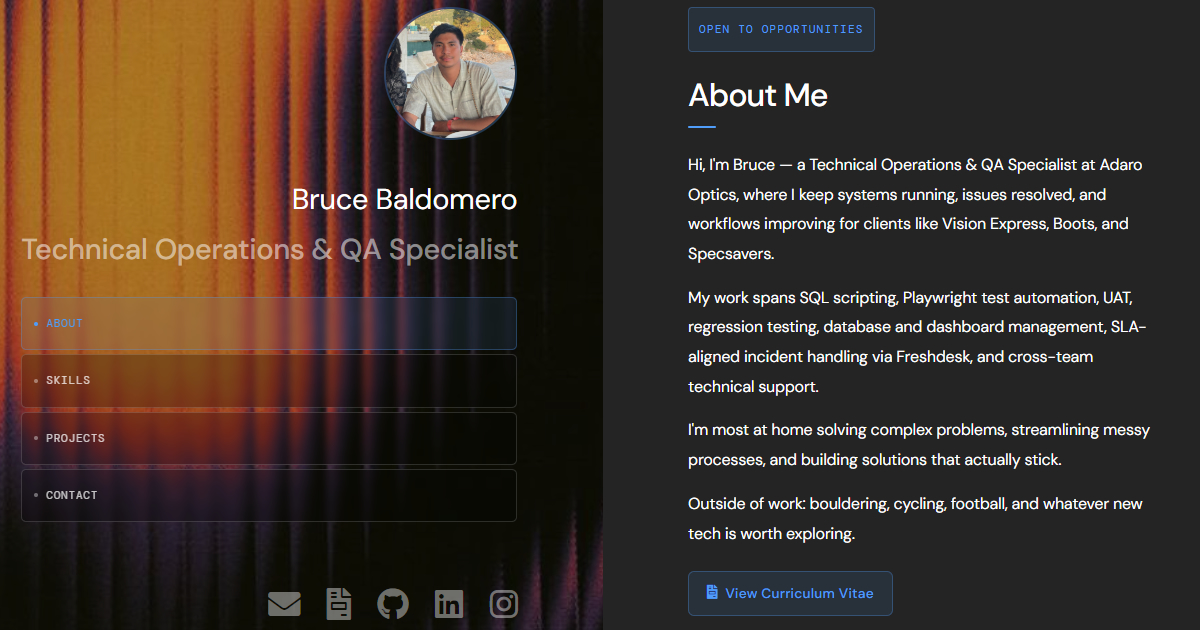
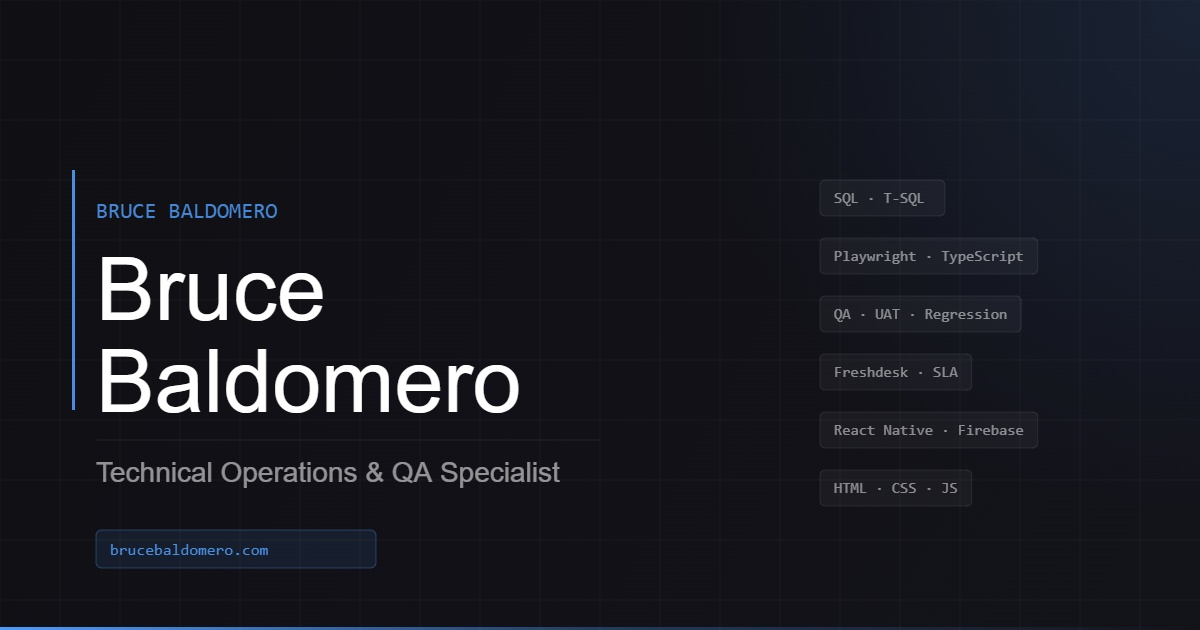
improvements

diff --git a/index.html b/index.html
@@ -65,7 +65,7 @@
 					<p>My work spans SQL scripting, Playwright test automation, UAT, regression testing, database and dashboard management, SLA-aligned incident handling via Freshdesk, and cross-team technical support.</p>
 					<p>I thrive in fast-paced environments, solving complex problems and building solutions that actually stick. Open to remote and office-based roles.</p>
 					<p>Outside of work: bouldering, cycling, football, and spending time with family and friends.</p>
-					<a href="https://drive.google.com/file/d/14tzCKrzU45PDKyebb9Lunte5wu6eVqVr/view?usp=sharing" target="_blank" class="cv-btn">
+					<a href="https://drive.google.com/file/d/14tzCKrzU45PDKyebb9Lunte5wu6eVqVr/view?usp=sharing" target="_blank" rel="noopener noreferrer" class="cv-btn">
 						<span class="fas fa-file-invoice"></span> View Curriculum Vitae
 					</a>
 				</div>
@@ -265,8 +265,8 @@
 						<span class="tech-tag">Web Design</span>
 					</div>
 					<div class="proj-links">
-						<a href="https://github.com/brucebaldomero/mukhafaceyoga" target="_blank" class="proj-btn"><i class="fab fa-github"></i> Code</a>
-						<a href="https://mukhafaceyoga.com" target="_blank" class="proj-btn proj-btn-live"><i class="fas fa-globe"></i> Live site</a>
+						<a href="https://github.com/brucebaldomero/mukhafaceyoga" target="_blank" rel="noopener noreferrer" class="proj-btn"><i class="fab fa-github"></i> Code</a>
+						<a href="https://mukhafaceyoga.com" target="_blank" rel="noopener noreferrer" class="proj-btn proj-btn-live"><i class="fas fa-globe"></i> Live site</a>
 					</div>
 				</article>
 
@@ -282,8 +282,8 @@
 						<span class="tech-tag">Expo</span>
 					</div>
 					<div class="proj-links">
-						<a href="https://github.com/brucebaldomero/creativeapplication" target="_blank" class="proj-btn"><i class="fab fa-github"></i> Code</a>
-						<a href="https://drive.google.com/file/d/1nGeuxvVltvege6mhWdIp_nWCgdqcSGXf/view?usp=sharing" target="_blank" class="proj-btn"><i class="fas fa-file"></i> Thesis</a>
+						<a href="https://github.com/brucebaldomero/creativeapplication" target="_blank" rel="noopener noreferrer" class="proj-btn"><i class="fab fa-github"></i> Code</a>
+						<a href="https://drive.google.com/file/d/1nGeuxvVltvege6mhWdIp_nWCgdqcSGXf/view?usp=sharing" target="_blank" rel="noopener noreferrer" class="proj-btn"><i class="fas fa-file"></i> Thesis</a>
 					</div>
 				</article>
 
@@ -299,8 +299,8 @@
 						<span class="tech-tag">SPA</span>
 					</div>
 					<div class="proj-links">
-						<a href="https://github.com/brucebaldomero/creative-single-page-app" target="_blank" class="proj-btn"><i class="fab fa-github"></i> Code</a>
-						<a href="https://brucebaldomero.github.io/creative-single-page-app/" target="_blank" class="proj-btn proj-btn-live"><i class="fas fa-globe"></i> Live site</a>
+						<a href="https://github.com/brucebaldomero/creative-single-page-app" target="_blank" rel="noopener noreferrer" class="proj-btn"><i class="fab fa-github"></i> Code</a>
+						<a href="https://brucebaldomero.github.io/creative-single-page-app/" target="_blank" rel="noopener noreferrer" class="proj-btn proj-btn-live"><i class="fas fa-globe"></i> Live site</a>
 					</div>
 				</article>
 
@@ -317,8 +317,8 @@
 						<span class="tech-tag">E-commerce</span>
 					</div>
 					<div class="proj-links">
-						<a href="https://github.com/brucebaldomero/grapevine-clothing" target="_blank" class="proj-btn"><i class="fab fa-github"></i> Code</a>
-						<a href="https://brucebaldomero.github.io/grapevine-clothing/" target="_blank" class="proj-btn proj-btn-live"><i class="fas fa-globe"></i> Live site</a>
+						<a href="https://github.com/brucebaldomero/grapevine-clothing" target="_blank" rel="noopener noreferrer" class="proj-btn"><i class="fab fa-github"></i> Code</a>
+						<a href="https://brucebaldomero.github.io/grapevine-clothing/" target="_blank" rel="noopener noreferrer" class="proj-btn proj-btn-live"><i class="fas fa-globe"></i> Live site</a>
 					</div>
 				</article>
 
@@ -334,8 +334,8 @@
 						<span class="tech-tag">JavaScript</span>
 					</div>
 					<div class="proj-links">
-						<a href="https://github.com/brucebaldomero/vegan-clothing" target="_blank" class="proj-btn"><i class="fab fa-github"></i> Code</a>
-						<a href="https://brucebaldomero.github.io/vegan-clothing/" target="_blank" class="proj-btn proj-btn-live"><i class="fas fa-globe"></i> Live site</a>
+						<a href="https://github.com/brucebaldomero/vegan-clothing" target="_blank" rel="noopener noreferrer" class="proj-btn"><i class="fab fa-github"></i> Code</a>
+						<a href="https://brucebaldomero.github.io/vegan-clothing/" target="_blank" rel="noopener noreferrer" class="proj-btn proj-btn-live"><i class="fas fa-globe"></i> Live site</a>
 					</div>
 				</article>
 
@@ -350,7 +350,7 @@
 						<span class="tech-tag">User Research</span>
 					</div>
 					<div class="proj-links">
-						<a href="https://drive.google.com/file/d/1q2Lzz9Q-A0nGW5pPOf4vd_KIpmbAn4Uj/view?usp=sharing" target="_blank" class="proj-btn"><i class="fas fa-file"></i> Thesis</a>
+						<a href="https://drive.google.com/file/d/1q2Lzz9Q-A0nGW5pPOf4vd_KIpmbAn4Uj/view?usp=sharing" target="_blank" rel="noopener noreferrer" class="proj-btn"><i class="fas fa-file"></i> Thesis</a>
 					</div>
 				</article>
 
@@ -365,7 +365,7 @@
 						<span class="tech-tag">Server-side</span>
 					</div>
 					<div class="proj-links">
-						<a href="https://drive.google.com/file/d/13mHXpLbhMjc3C7t8tadNL6GSpflTwwVU/view?usp=sharing" target="_blank" class="proj-btn"><i class="fas fa-file"></i> Thesis</a>
+						<a href="https://drive.google.com/file/d/13mHXpLbhMjc3C7t8tadNL6GSpflTwwVU/view?usp=sharing" target="_blank" rel="noopener noreferrer" class="proj-btn"><i class="fas fa-file"></i> Thesis</a>
 					</div>
 				</article>
 
@@ -391,21 +391,21 @@
 								<span class="contact-item-value">brucebaldomero@gmail.com</span>
 							</div>
 						</a>
-						<a href="https://www.linkedin.com/in/brucebaldomero/" target="_blank" class="contact-item">
+						<a href="https://www.linkedin.com/in/brucebaldomero/" target="_blank" rel="noopener noreferrer" class="contact-item">
 							<span class="contact-item-icon"><i class="fab fa-linkedin"></i></span>
 							<div>
 								<span class="contact-item-label">LinkedIn</span>
 								<span class="contact-item-value">linkedin.com/in/brucebaldomero</span>
 							</div>
 						</a>
-						<a href="https://github.com/brucebaldomero" target="_blank" class="contact-item">
+						<a href="https://github.com/brucebaldomero" target="_blank" rel="noopener noreferrer" class="contact-item">
 							<span class="contact-item-icon"><i class="fab fa-github"></i></span>
 							<div>
 								<span class="contact-item-label">GitHub</span>
 								<span class="contact-item-value">github.com/brucebaldomero</span>
 							</div>
 						</a>
-						<a href="https://drive.google.com/file/d/14tzCKrzU45PDKyebb9Lunte5wu6eVqVr/view?usp=sharing" target="_blank" class="contact-item">
+						<a href="https://drive.google.com/file/d/14tzCKrzU45PDKyebb9Lunte5wu6eVqVr/view?usp=sharing" target="_blank" rel="noopener noreferrer" class="contact-item">
 							<span class="contact-item-icon"><i class="fas fa-file-invoice"></i></span>
 							<div>
 								<span class="contact-item-label">Curriculum Vitae</span>
@@ -421,16 +421,16 @@
 						<div class="contact-form-grid">
 							<div class="form-field">
 								<label for="name" class="form-label">Name</label>
-								<input type="text" name="name" id="name" placeholder="Your name" autocomplete="name" />
+								<input type="text" name="name" id="name" placeholder="Your name" autocomplete="name" required />
 							</div>
 							<div class="form-field">
 								<label for="email" class="form-label">Email</label>
-								<input type="email" name="email" id="email" placeholder="your@email.com" autocomplete="email" />
+								<input type="email" name="email" id="email" placeholder="your@email.com" autocomplete="email" required />
 							</div>
 						</div>
 						<div class="form-field">
 							<label for="message" class="form-label">Message</label>
-							<textarea name="message" id="message" placeholder="Your message" rows="5"></textarea>
+							<textarea name="message" id="message" placeholder="Your message" rows="5" required></textarea>
 						</div>
 						<button type="submit" class="contact-submit">Send Message <i class="fas fa-arrow-right"></i></button>
 					</form>
@@ -440,15 +440,23 @@
 
 	</div>
 
+	<!-- Mobile bottom nav -->
+	<nav id="mobile-nav" aria-label="Mobile navigation">
+		<a href="#one"   class="mobile-nav-tab active"><i class="fas fa-user"></i><span>About</span></a>
+		<a href="#skills" class="mobile-nav-tab"><i class="fas fa-code"></i><span>Skills</span></a>
+		<a href="#two"   class="mobile-nav-tab"><i class="fas fa-folder"></i><span>Projects</span></a>
+		<a href="#three" class="mobile-nav-tab"><i class="fas fa-envelope"></i><span>Contact</span></a>
+	</nav>
+
 	<!-- Footer -->
 	<footer id="footer">
 		<div class="inner">
 			<ul class="icons">
 				<li><a href="mailto:brucebaldomero@gmail.com" class="icon solid fa-envelope"><span class="label">Email</span></a></li>
-				<li><a href="https://drive.google.com/file/d/14tzCKrzU45PDKyebb9Lunte5wu6eVqVr/view?usp=sharing" class="icon solid fa-file-invoice" target="_blank"><span class="label">CV</span></a></li>
-				<li><a href="https://github.com/brucebaldomero" class="icon brands fa-github" target="_blank"><span class="label">Github</span></a></li>
-				<li><a href="https://www.linkedin.com/in/brucebaldomero/" class="icon brands fa-linkedin" target="_blank"><span class="label">LinkedIn</span></a></li>
-				<li><a href="https://www.instagram.com/bruce_bonus/?hl=en" class="icon brands fa-instagram" target="_blank"><span class="label">Instagram</span></a></li>
+				<li><a href="https://drive.google.com/file/d/14tzCKrzU45PDKyebb9Lunte5wu6eVqVr/view?usp=sharing" class="icon solid fa-file-invoice" target="_blank" rel="noopener noreferrer"><span class="label">CV</span></a></li>
+				<li><a href="https://github.com/brucebaldomero" class="icon brands fa-github" target="_blank" rel="noopener noreferrer"><span class="label">Github</span></a></li>
+				<li><a href="https://www.linkedin.com/in/brucebaldomero/" class="icon brands fa-linkedin" target="_blank" rel="noopener noreferrer"><span class="label">LinkedIn</span></a></li>
+				<li><a href="https://www.instagram.com/bruce_bonus/?hl=en" class="icon brands fa-instagram" target="_blank" rel="noopener noreferrer"><span class="label">Instagram</span></a></li>
 			</ul>
 			<ul class="copyright">
 				<li>&copy; 2021 – 2026</li>
@@ -496,20 +504,25 @@
 		/* ── Nav tab active state on scroll ── */
 		const sections = ['one','skills','two','three'];
 		const tabs = document.querySelectorAll('.nav-tab');
+		const mobileTabs = document.querySelectorAll('.mobile-nav-tab');
 		const sectionEls = sections.map(id => document.getElementById(id));
 		const navObserver = new IntersectionObserver((entries) => {
 			entries.forEach(e => {
 				if (e.isIntersecting) {
 					tabs.forEach(t => t.classList.remove('active'));
+					mobileTabs.forEach(t => t.classList.remove('active'));
 					const match = document.querySelector(`.nav-tab[href="#${e.target.id}"]`);
 					if (match) match.classList.add('active');
+					const mobileMatch = document.querySelector(`.mobile-nav-tab[href="#${e.target.id}"]`);
+					if (mobileMatch) mobileMatch.classList.add('active');
 				}
 			});
 		}, { threshold: 0.25 });
 		sectionEls.forEach(el => { if (el) navObserver.observe(el); });
 
 		/* ── Smooth scroll for tabs ── */
-		tabs.forEach(tab => {
+		const allTabs = document.querySelectorAll('.nav-tab, .mobile-nav-tab');
+		allTabs.forEach(tab => {
 			tab.addEventListener('click', e => {
 				e.preventDefault();
 				const target = document.querySelector(tab.getAttribute('href'));

diff --git a/assets/css/custom.css b/assets/css/custom.css
@@ -146,6 +146,56 @@
 		#nav-tabs { display: none; }
 	}
 
+	/* ── Mobile bottom nav ────────────────────────────────── */
+	#mobile-nav {
+		display: none;
+	}
+	@media screen and (max-width: 980px) {
+		#mobile-nav {
+			display: flex;
+			position: fixed;
+			bottom: 0;
+			left: 0;
+			right: 0;
+			z-index: 1000;
+			background: rgba(18, 18, 22, 0.92);
+			backdrop-filter: blur(12px);
+			-webkit-backdrop-filter: blur(12px);
+			border-top: 1px solid var(--divider);
+			padding: 6px 0 max(6px, env(safe-area-inset-bottom));
+		}
+		body.light-mode #mobile-nav {
+			background: rgba(245, 245, 247, 0.92);
+		}
+		.mobile-nav-tab {
+			flex: 1;
+			display: flex;
+			flex-direction: column;
+			align-items: center;
+			gap: 3px;
+			padding: 6px 4px;
+			font-family: 'DM Mono', monospace;
+			font-size: 0.58rem;
+			letter-spacing: 0.06em;
+			text-transform: uppercase;
+			color: var(--muted);
+			text-decoration: none !important;
+			transition: color 0.2s;
+		}
+		.mobile-nav-tab i {
+			font-size: 1rem;
+		}
+		.mobile-nav-tab.active,
+		.mobile-nav-tab:hover {
+			color: var(--accent) !important;
+			text-decoration: none !important;
+		}
+		/* Pad the page so content isn't hidden behind the bar */
+		#main, #footer {
+			padding-bottom: 64px;
+		}
+	}
+
 	/* ── Reveal ───────────────────────────────────────────── */
 	.reveal { opacity: 0; transform: translateY(20px); transition: opacity 0.6s var(--ease), transform 0.6s var(--ease); }
 	.reveal.visible { opacity: 1; transform: translateY(0); }
